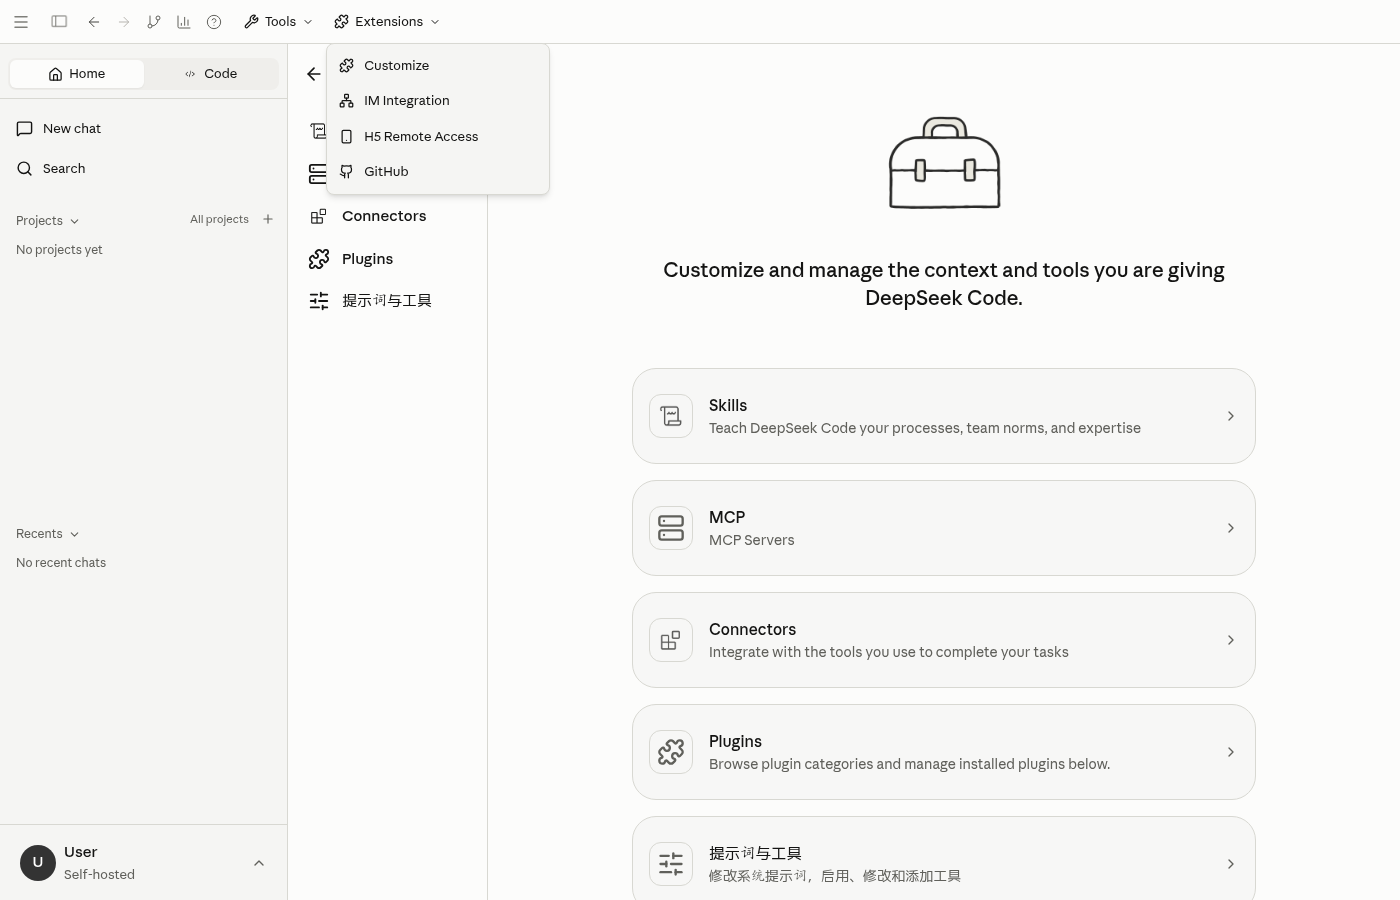
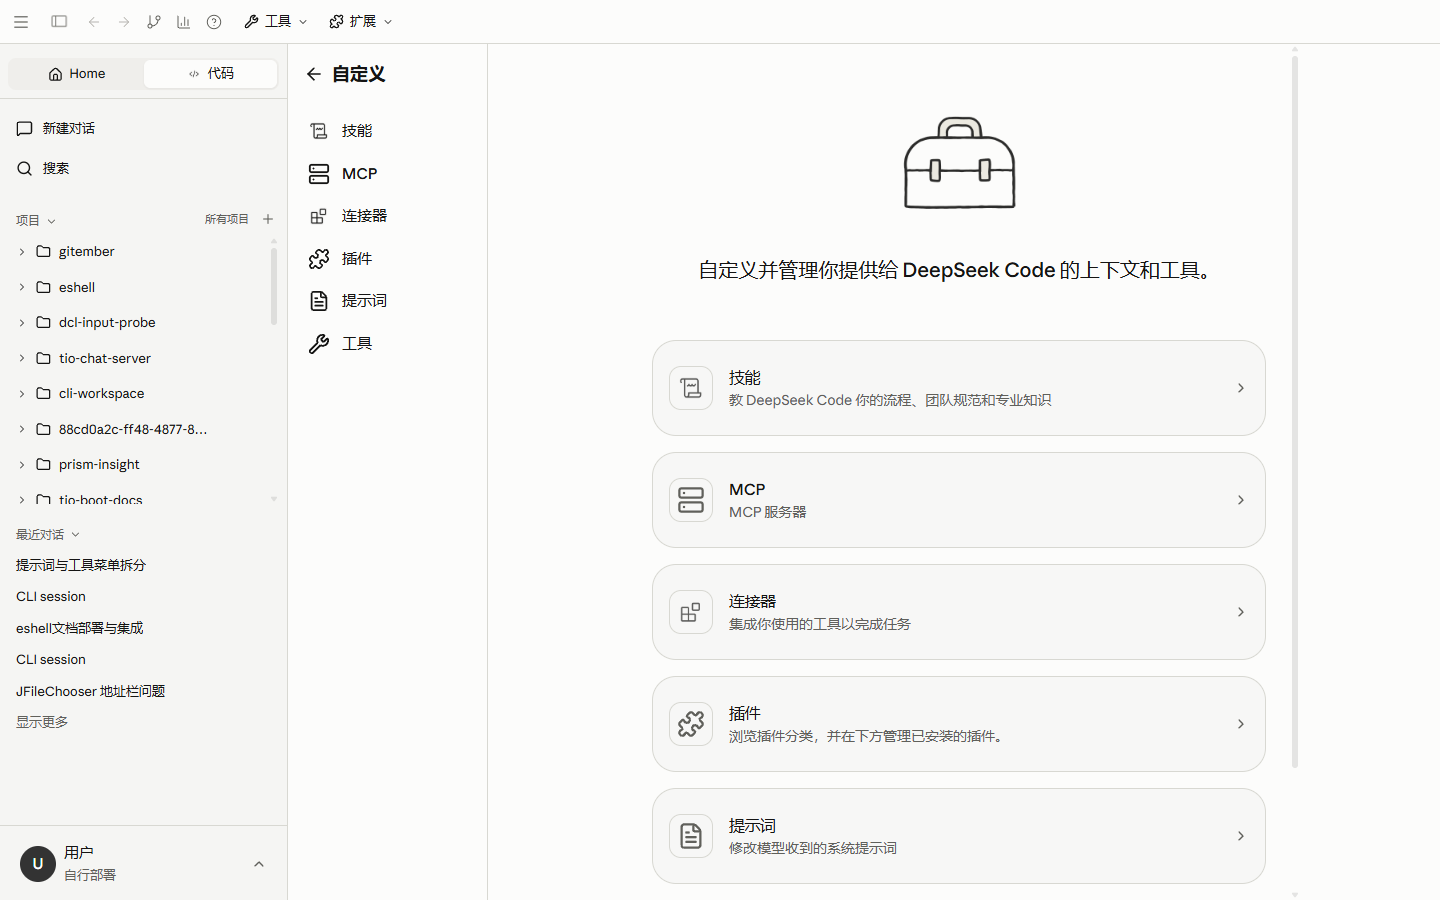
docs: separate prompt and tool settings entries
The Customize page now has two entries instead of one, so the guide,
the verification record and the screenshots describe them separately.

Records the real Desktop check: each entry saves only its own half, the
saved values come back after a reload, an unsaved edit on the other entry
is not committed, and an empty replacement prompt blocks only the prompt
entry. Screenshots add the saved states of both pages.

Also documents the shell behavior: pipelines report the failing
command's exit code, output cut short by a reader is marked
`pipeline_sigpipe`, and a normal call cleans up its process tree while
`detach` starts an unmanaged service.

diff --git a/desktop/development/customize-verification.md b/desktop/development/customize-verification.md
@@ -1,5 +1,49 @@
 # 自定义入口验证
 
+## 2026-11-07 更新：提示词与工具拆分为两个入口
+
+自定义页原来的“提示词与工具”是一个入口，现在拆分为**提示词**和**工具**。左侧二级导航与概览卡片都按 **Skills → MCP → Connectors → Plugins → 提示词 → 工具** 排列。
+
+- 提示词页只包含系统提示词：使用方式、内置提示词预览，以及替换模式下的内容编辑与恢复。
+- 工具页只包含内置工具和自定义工具：开关、筛选、说明编辑，以及自定义工具的增删改。
+- 两页读取同一份设置，**各自保存各自的一半**：在提示词页改了没保存，切到工具页保存不会把它一并提交；反之亦然。保存后下一次模型请求生效，Desktop 与 dcl 共用。
+- 没有修改时“保存”不可用；只有提示词页在“完全替换且内容为空”时禁用保存，不会阻塞工具页。
+- 两个入口共用一个组件实例，未保存的草稿在切换后仍保留，回到该页可以继续保存。
+
+界面文案支持中文和英文。切换语言后，入口名称、页面标题、按钮、表单标签、占位符和提示文字都随之更新；尚未翻译的语言暂时显示英文。
+
+### 浏览器验证
+
+2026-11-07 在本地前端开发页面连接运行中的桌面 Bridge，使用 deepseek-browser-use 操作有头 Chrome，视口 1440×900：
+
+1. 打开自定义页：左侧导航与概览卡片都出现六个入口，顺序一致。
+2. 点击“提示词”：标题为“提示词”，只显示系统提示词设置，不出现内置工具和自定义工具。
+3. 点击“工具”：标题为“工具”，显示内置工具与自定义工具，不出现系统提示词设置。
+4. 在设置页把界面语言切换为英文：入口变为 Skills、MCP、Connectors、Plugins、Prompts、Tools；提示词页标题为 Prompts，“保存”为 Save，使用方式选择框可通过 `System prompt mode` 定位，页面不出现 Built-in tools。
+5. 切换回简体中文，语言与入口恢复原状。
+
+截图见 `assets/customize-overview.png`、`assets/desktop-customize-prompt.png`、`assets/desktop-customize-tools.png`。
+
+### 真实保存验证
+
+同一实例连接真实 Bridge，直接检查数据目录里的 `customization.json`。为避免留下测试配置，验证前该文件不存在，验证结束后已删除：
+
+1. 提示词页改为“在内置提示词后追加”，填写内容后保存：页面出现“已保存”提示，文件写入 `append` 与对应文本。
+2. 工具页关闭内置工具 Write 并保存：文件新增 `disabled_tools`，`system_prompt` 保持步骤 1 的值。
+3. 刷新页面后重新打开两页：提示词内容与 Write 的关闭状态都按已保存的值显示，说明读回自服务端而非本地草稿。
+4. 在提示词页把内容改成“未保存的修改”但不保存，切到工具页再关闭 Read 并保存：文件里的提示词仍是步骤 1 的内容，只新增了 Read。
+5. 反向验证：在工具页把 Grep 关闭但不保存，切到提示词页修改内容并保存，文件中没有 Grep，说明未保存的工具改动不会被提示词页提交。
+6. 提示词页切换为“完全替换”并清空内容：“保存”不可用；切到工具页仍可保存，文件中的提示词保持不变。
+7. 保存提示只出现在执行保存的那一页，切到另一页不再显示。
+
+截图见 `assets/desktop-customize-prompt-saved.png`、`assets/desktop-customize-tools-saved.png`。
+
+### 自动化检查
+
+前端 652 项测试通过（其中提示词与工具设置 9 项、自定义页 7 项、语言完整性 39 项），类型检查、生产构建、桌面端 `cargo check` 通过，`git diff --check` 通过。
+
+自定义页测试包含两条连续切换用例：未保存的提示词不会被后续的工具保存提交；空替换提示词不阻塞工具页保存。
+
 ## 2026-11-03 更新：统一概览与管理入口
 
 概览卡片与左侧二级导航均按 **Skills → MCP → Connectors → Plugins** 排列，使用一致的图标容器、标题与描述、尺寸、圆角、箭头及键盘焦点样式。点击概览 Skills 进入技能管理，不再直接创建；需要创建时，在技能管理中点击加号并选择“编写技能指令”。

diff --git a/cli/tools.md b/cli/tools.md
@@ -43,7 +43,9 @@ MCP 服务的工具以 `mcp__服务名__工具名` 的名字出现，见[MCP 服
 - Windows 自动寻找 Git for Windows 的 Bash，支持 PATH 中非 C 盘的安装位置；跳过 System32 和 WindowsApps 的 WSL Bash 别名。找不到 Bash 时明确报错。
 - 执行结果的 `shell` 和 `shell_path` 表示实际启动的 Shell；语法错误和非零退出码均报告失败。保存工作目录不会覆盖命令的退出码。
 - `timeout` 以**毫秒**计，前台默认 120000（2 分钟），最多 600000（10 分钟）。
-- `run_in_background: true` 让命令在后台运行，模型用 `TaskOutput` 读取输出、用 `TaskStop` 停止，你可以用 `/tasks` 查看，见[交互界面](./interface.md)。
+- `run_in_background: true` 让命令作为受管任务在后台运行，模型用 `TaskOutput` 读取输出、用 `TaskStop` 停止，你可以用 `/tasks` 查看，见[交互界面](./interface.md)。
+- **调用结束会清理整棵子进程树**，包括命令自己启动的子进程。需要跨调用、跨进程存活的服务（本地服务、守护进程）用 `detach: true`：立即返回 `pid` 与日志文件路径，不等待输出，也不作为任务跟踪。它不能与 `run_in_background`、`timeout` 同时使用。宿主进程组拒绝脱离时结果里的 `isolated` 为 `false`，提示文字也会相应说明该进程可能随本次调用一起结束。
+- **管道按原命令报告退出码**：bash 和 zsh（包括 Windows 上的 Git Bash）加上 `pipefail`，所以 `失败命令 | head` 不会再显示为成功。输出被 `head` 之类的读取方提前截断时，bash 退出码为 141，结果里 `pipeline_sigpipe` 为 `true`、`success` 仍为 `true`，同时保留 `exit_code: 141`。
 - **工作目录在调用之间保留**：上一次 `cd` 进入的目录，下一次调用仍然在那里。bash、sh、zsh、PowerShell（pwsh 和 Windows PowerShell）、Windows 上的 Git Bash 和 `cmd` 都支持。shell 变量不保留。
 - 如果目录跑到了项目之外，下一次调用回到项目根目录，结果里附一句 `Shell cwd was reset to <项目目录>`。
 - 开启[沙箱](./sandbox.md)后在隔离环境中运行；`dangerouslyDisableSandbox: true` 在沙箱外运行这一条命令。
@@ -72,6 +74,6 @@ MCP 服务的工具以 `mcp__服务名__工具名` 的名字出现，见[MCP 服
 
 ## 调整工具和系统提示词
 
-工具开关、工具说明、自定义工具和系统提示词都保存在数据目录的 `customization.json`，由 Desktop 的[提示词与工具](/desktop/usage/skills#提示词与工具)页面编辑，dcl 自动生效，下一次模型请求开始使用。
+工具开关、工具说明、自定义工具和系统提示词都保存在数据目录的 `customization.json`，由 Desktop 自定义页的[提示词](/desktop/usage/skills#提示词)和[工具](/desktop/usage/skills#工具)页面编辑，dcl 自动生效，下一次模型请求开始使用。
 
 这个文件有语法错误时，dcl 会报告错误并停止这一轮，不会悄悄恢复已关闭的工具。
